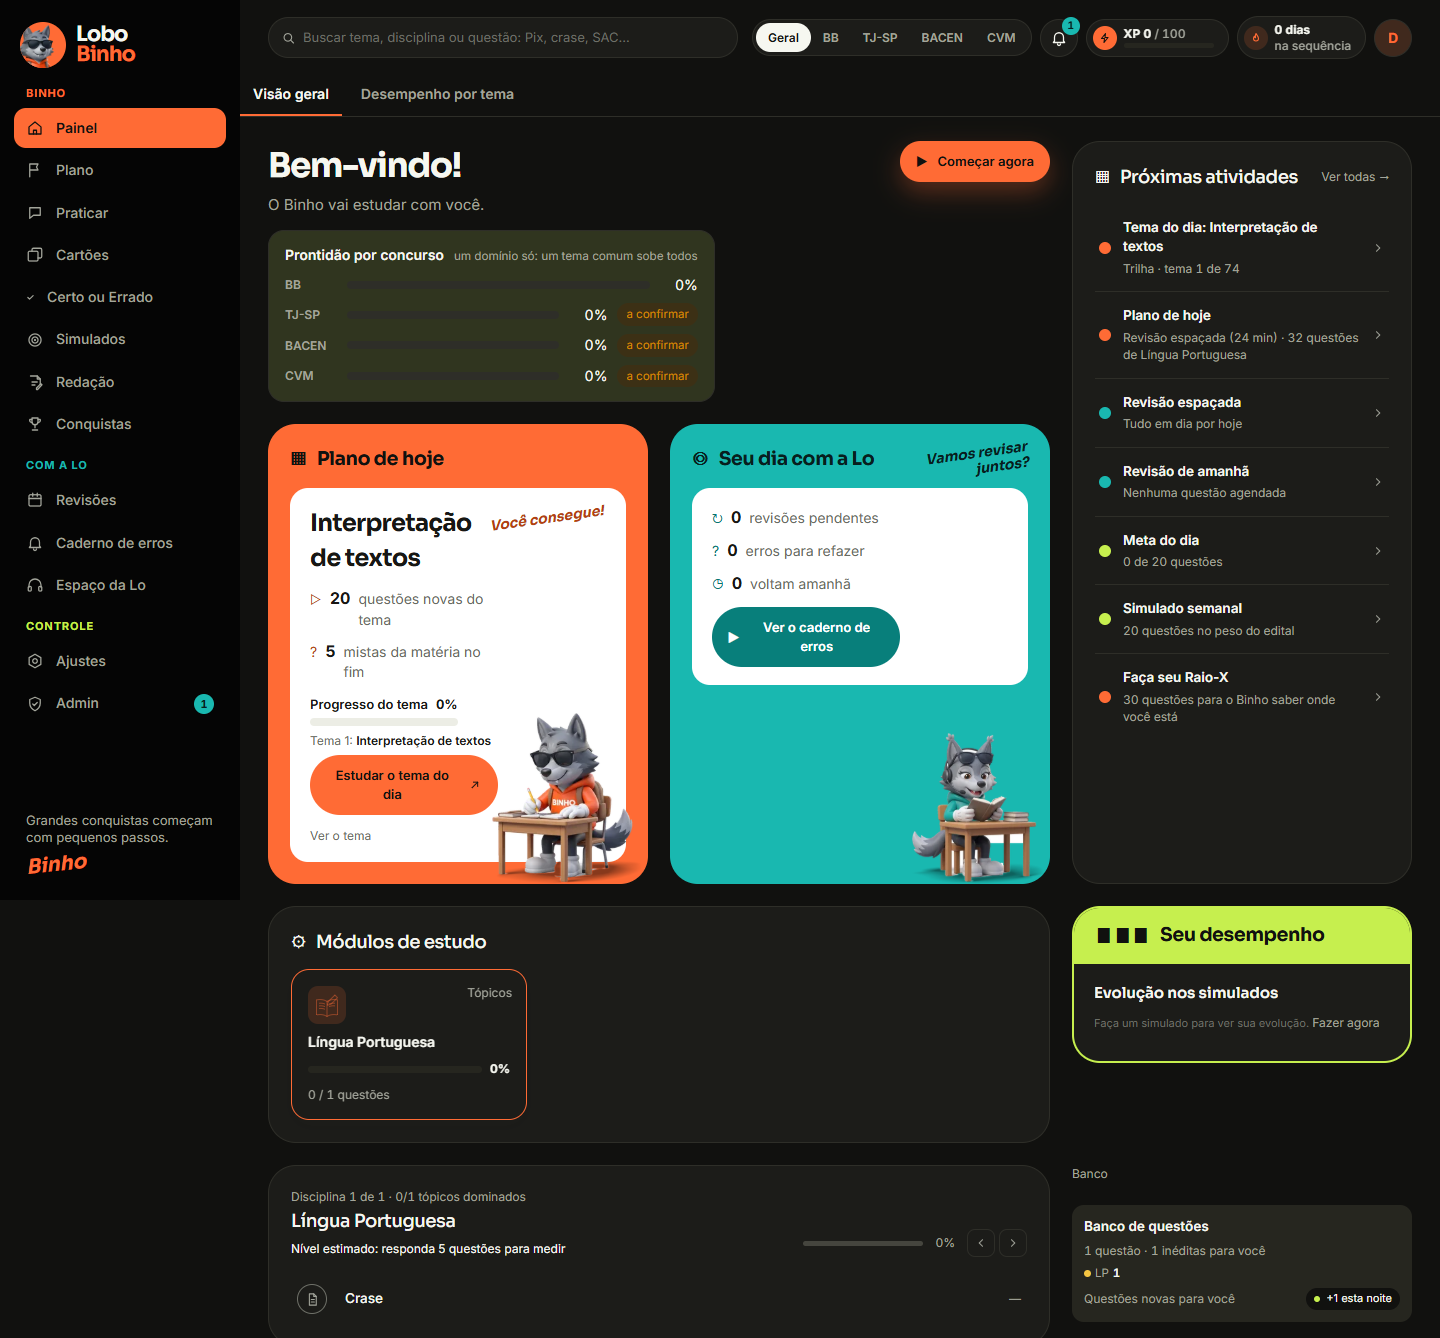
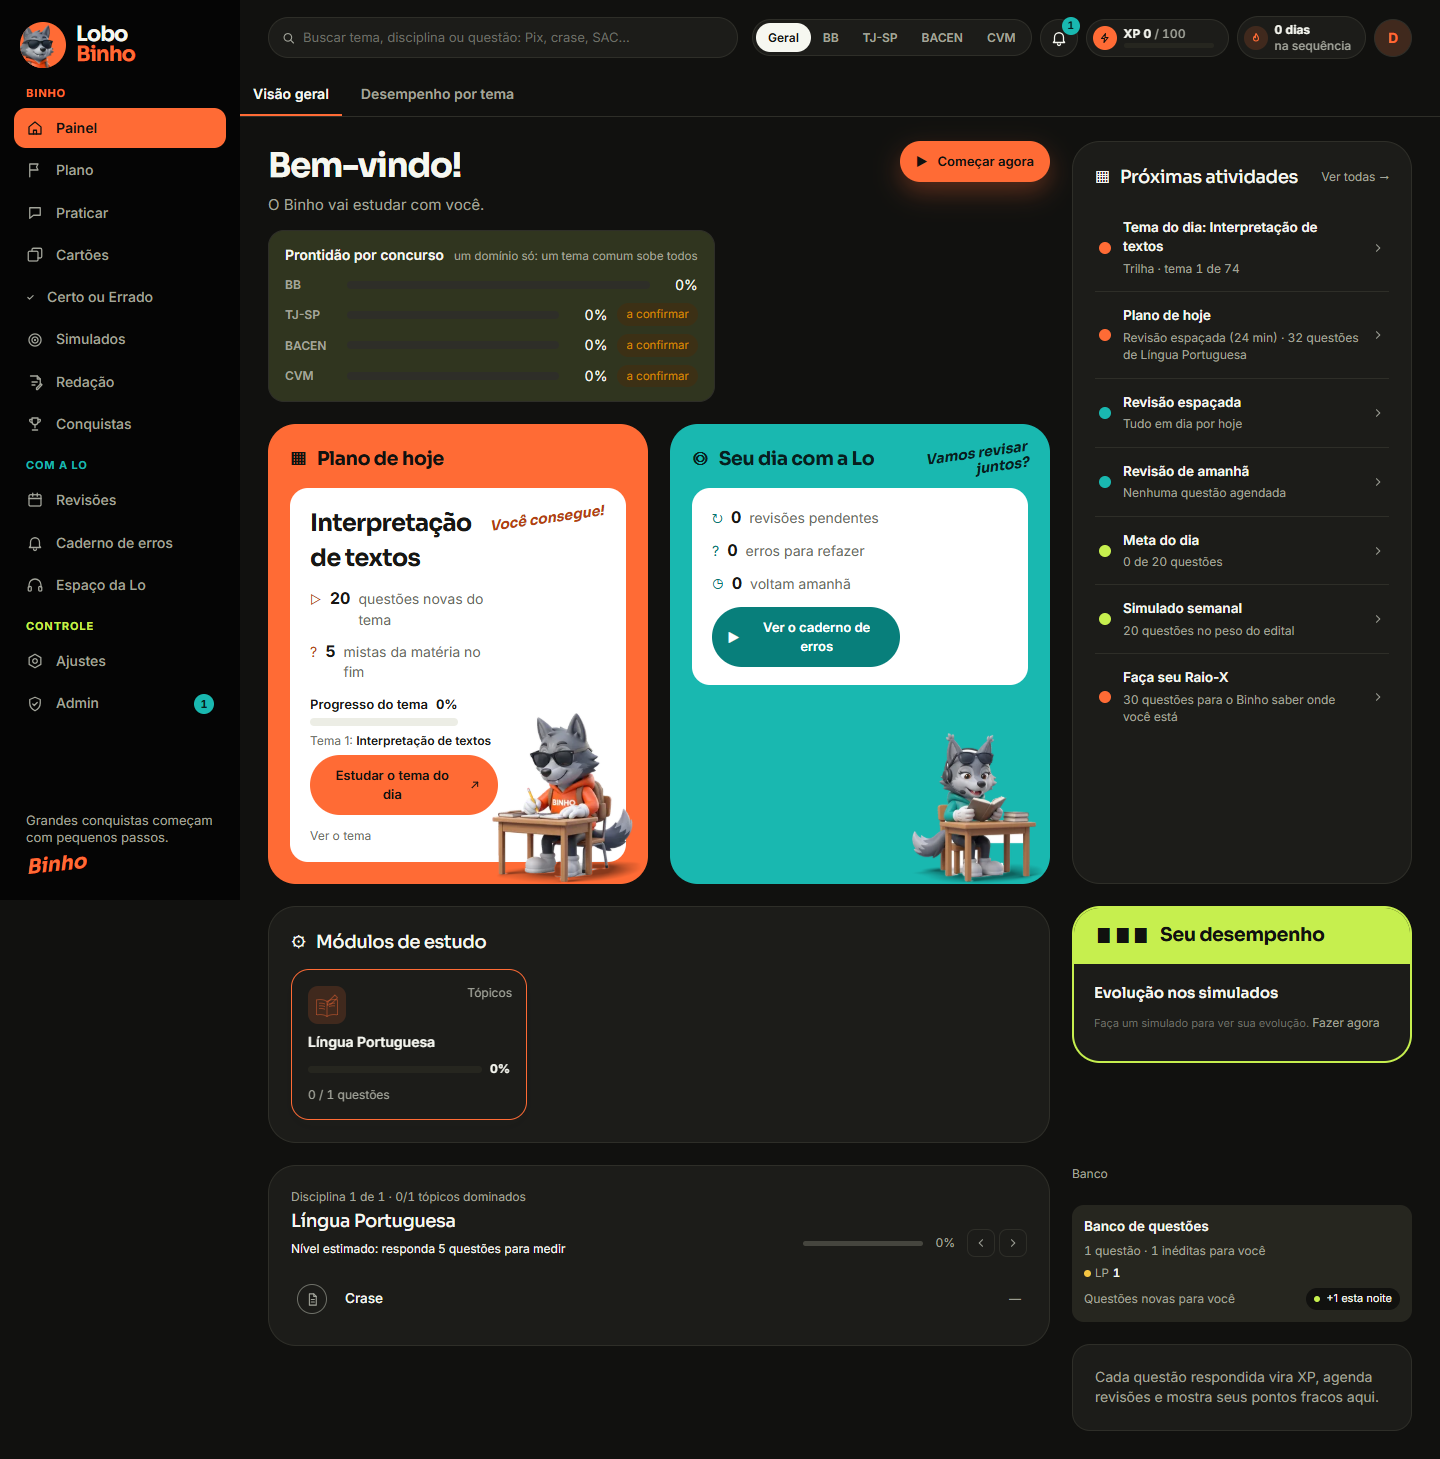
docs(v1.0): RETOMAR.md, MESTRE e DIARIO; body-parser 2.4.0 (alta)
Fechamento v1.0, item 6.
- Varredura de segredos no histórico: 3 URIs, todas de exemplo; nenhum segredo real.
- npm audit: body-parser 2.4.0 (alta corrigida, mesma versão maior); resta 1 moderada em dev
  (fast-uri), na lista.
- docs/RETOMAR.md: subir, publicar, voltar de versão (Render/Vercel), demo, noturno, Atlas,
  backups e pendências por prioridade. MESTRE: energia do PC e freios.
Typecheck limpo, 292 ok / 0 falha, 5/5 com banco em memória, smoke 31,1 s.

diff --git a/docs/RETOMAR.md b/docs/RETOMAR.md
@@ -1,0 +1,49 @@
+# Retomar o Lobo Binho (versão v1.0-estudo)
+
+Versão congelada em 26/10/2026, tag `v1.0-estudo`. As regras estão no `CLAUDE.md`; o estado e os números, no `docs/MESTRE.md`.
+
+## Subir no PC
+1. `npm run setup` (só na primeira vez). Use Node 22.
+2. `.env` a partir do `.env.example`. **Nunca** commitar nem imprimir o `.env`.
+3. `npm run dev`: API em :3333 e site em :5173.
+4. Conferir: `npm run typecheck`, `npm test` e `npx tsx scripts/smoke-local.ts` (servidor de produção num banco em memória, ~30 s).
+
+## Publicar
+- **Render** (API e site): painel → serviço → *Manual Deploy* → *Deploy latest commit*. O health check é `/api/saude`, que mostra a versão (commit) e o último noturno.
+- **Vercel** (frente rápida): passo a passo em `docs/VERCEL.md`. O `web/vercel.json` já traz o rewrite, a CSP, o cache e o `npm ci`.
+- **Depois de publicar:** `SMOKE_URL=https://<site> SMOKE_EMAIL=... SMOKE_SENHA=... npm run smoke`. Leva menos de 2 min: responde 1 questão e a desfaz.
+
+## Voltar para a versão anterior
+- **Render:** painel → *Events/Deploys* → escolha o deploy da tag anterior → *Rollback*. Ou, pelo código: `git checkout v1.0-estudo` e *Deploy* desse commit.
+- **Vercel:** painel → *Deployments* → o deploy anterior → *Promote to Production*.
+- **Banco:** a versão do código não mexe nos dados. Para restaurar dados, ver "Backups" abaixo.
+
+## Se algo der errado
+- **O site caiu no modo demo** (selo "modo demo"):
+  1. Abra `/api/saude`. Se não responder, o Render dorme ou caiu; espere ~1 min.
+  2. Se responder e mesmo assim ficar no demo, olhe o cookie de login. Ele é `HttpOnly; SameSite=Lax; Secure`, sem `Domain`, e pelo rewrite da Vercel fica no domínio do site. Não aponte o site direto para a URL do Render: use sempre o `/api` do próprio site.
+- **O noturno parou:** veja Admin → selo "noturno atrasado" (mais de 36 h) e Admin → Janelas.
+  1. Rode `schtasks /query /tn "Lobo Binho - Noturno Local" /v /fo LIST`.
+  2. A tarefa precisa de: acordar o PC, rodar se perdido e parar em 5 h.
+  3. O PC precisa estar em **suspensão** (não desligado), na tomada, com a conta logada.
+  4. Logs em `logs\noturno\<data>.log`, guardados por 14 dias. Para trava presa: `npm run bb -- limpar-trava-orfa <pid>`.
+- **O Atlas lotou:** o relatório diário avisa acima de 70%, e a escrita para em 80%.
+  1. Rode `npm run bb -- uso-banco` (o que pesa).
+  2. Depois `npm run bb -- uso-banco ajustar` (TTL da telemetria e teto do áudio).
+  3. Nada de plano pago.
+- **A IA para no meio do dia:** pode ser o teto diário global (`IA_TETO_DIA`, padrão 300 chamadas) ou o disjuntor (5 falhas seguidas → o modelo fica 30 min fora). Os dois aparecem em Admin → Erros.
+
+## Backups
+- **Onde ficam:** `backups/<data>[-HHmm]/`, fora do Git, um por noite. Guardam 14 dias.
+- **O que cobrem:** contas, tentativas, revisões, redações, ratings, questões, tópicos, cartões, contestações, respostas C/E, simulados, Espaço da Lo, itens C/E e fichas.
+- **Provar que restaura:** `npm run bb -- backup-testar` restaura numa base temporária, compara coleção por coleção e apaga a temporária. Último teste: `backups/2026-10-26-0859`, 15/15 coleções iguais.
+- **Restaurar de verdade:** `npm run bb -- restaurar backups/<pasta> --simular`, conferir as contagens, depois `--confirmar` (cria um rollback antes).
+
+## Pendências por prioridade
+1. **(Dono)** Publicar: Vercel (`docs/VERCEL.md`) e deploy no Render. Depois, rodar `npm run smoke` com a sua conta.
+2. **(Dono)** O `render.yaml` declara `plan: starter`, que é **pago**, no site e no cron. Confira no painel do Render se está no free. O noturno roda no PC, então o cron do Render não é necessário.
+3. **(Dono)** BNB 2024 item 17; gabaritos do TJ-SP 2023 e do CNU 2024; cotas do edital do TJ-SP; os 72 arquivos por tema.
+4. Fichas que o material do acervo não sustenta: Interpretação, Pontuação e Coesão. Elas precisam de material com teoria (mapa do acervo) ou do OK do dono para cursinho.
+5. Lotes de provas da E10 (Cesgranrio, Cebraspe, FGV), amostra de 80 da classificação e golden set do chat de 30 casos: os comandos estão prontos e ainda não rodaram.
+6. Livros CVM/BCB por capítulo.
+7. `fast-uri` (moderada, só em dependência de desenvolvimento).

diff --git a/docs/DIARIO.md b/docs/DIARIO.md
@@ -467,7 +467,23 @@ O histórico completo (16 a 20/10/2026, viagem, adendos e PROMPT-FECHAMENTO F0 a
    - "Relatório da esteira" no fim: temas prontos × total por concurso, chamadas × capacidade, descarte por motivo.
    - Também roda à mão com `bb -- esteira relatorio`.
 
-RETOMAR AQUI (26/10/2026):
-1. Esteira de conteúdo: deixar a noite trabalhar; conferir de manhã o relatório da esteira e a aba Cobertura. Falta: livros CVM/BCB por capítulo. Quando os 20 primeiros temas baterem a meta: E12 + E14 e congelar funcionalidades.
-2. Retomar as cadeias que não rodaram: lotes da E10 (BNDES, Caixa, Banrisul, BASA, Cebraspe, FGV), amostra de 80 da E3, golden set do chat de 30, fichas.
-3. BLOQUEADO pelo dono: BNB 2024 item 17; gabarito TJ-SP 2023; gabarito CNU; cotas TJ-SP.
+## 26/10/2026 — Fechamento de versão v1.0-estudo (congelada)
+
+- Esteira de conteúdo (rodada de 6 temas): Concordância PRONTO (agora são 2 de 74 prontos). Regência e Pontuação chegaram a 15 novas; as fichas de Pontuação, Coesão e Interpretação foram barradas pelo material.
+- Item 0: SIM. Backup restaurado num MongoDB local em memória (o usuário do Atlas não cria outras bases), 15/15 coleções iguais. O backup passou a levar respostas C/E, simulados, espaco_lo, itens C/E e fichas; backup antigo continua restaurável (teste). `402a79c`.
+- Item 1: SIM. `vercel.json` com CSP igual à do Express (0 violações no build de produção), cache imutável, `index.html` sem cache, `npm ci`, Node 22.x. `66256f3`.
+- Item 2: SIM.
+  - `npm run smoke`: 31,5 s local, contra o servidor de produção num banco em memória.
+  - `/api/saude` mostra a versão e o último noturno.
+  - Selo "noturno atrasado" e Admin → Erros, sem dados sensíveis.
+  - Commits `fa86dbb` e `2395528`.
+  - O cookie não precisou de correção (`SameSite=Lax`, sem `Domain`).
+- Item 3: PARCIAL. A vigência só vale para tema normativo; teste escrito antes, falhou, corrigi e passa. A ficha de Interpretação regerada 2x foi rejeitada por outro motivo (só 2 de 5 trechos literais no material). Nenhuma outra ficha caiu pela vigência. `1b4eaf7`.
+- Item 4: SIM. `IA_TETO_DIA` (300), disjuntor de 5 falhas → 30 min com registro, e o segundo noturno sai sem fazer nada. Os três têm teste. `120715d`.
+- Item 5: SIM. Tarefa com acordar o PC, rodar se perdido e limite de 5 h; idempotência provada (classificação e C/E); logs e backups com 14 dias; alerta do Atlas acima de 70% no relatório. `923cc09`.
+- Item 6:
+  - Varredura de segredos no histórico: 3 URIs, todas de exemplo (.env.example, teste "fake", teste de limpeza). Nenhum segredo real.
+  - `npm audit`: `body-parser` 2.4.0 (alta corrigida sem trocar a versão maior); sobra 1 moderada em dependência de desenvolvimento (`fast-uri`).
+  - Tag `v1.0-estudo` e `docs/RETOMAR.md`.
+
+RETOMAR AQUI (26/10/2026): ver `docs/RETOMAR.md` (versão v1.0-estudo congelada). Daqui em diante: só esteira de conteúdo e correções.

diff --git a/docs/MESTRE.md b/docs/MESTRE.md
@@ -180,6 +180,15 @@ Resolvidas (uma linha cada):
   2. Rode `schtasks /query /tn "Lobo Binho - Noturno Local" /v /fo LIST`. O PC precisa estar ligado ou em suspensão, com a conta logada.
   3. Se a Janela B estiver agendada, ela recupera às 18:00.
   4. Trava presa: `bb -- limpar-trava-orfa <pid>`.
+- **Energia do PC (para o noturno das 01:00):** sem mexer em nada além da tarefa e da energia.
+  1. Configurações → Sistema → Energia: tela "Nunca" é opcional; o PC precisa poder **suspender** (não hibernar nem desligar).
+  2. Painel de Controle → Opções de Energia → *Alterar configurações do plano* → *Alterar configurações de energia avançadas* → Suspender → **Permitir temporizadores de ativação = Ativar** (na bateria e na tomada).
+  3. Deixe o notebook **na tomada** e a sua conta **logada** (bloquear a tela pode; sair da conta não).
+  4. A tarefa "Lobo Binho - Noturno Local" já está com: acordar o computador, executar assim que possível se perdido, parar se passar de 5 h.
+- **Freios (v1.0):**
+  - teto diário global de chamadas de IA (`IA_TETO_DIA`, padrão 300);
+  - disjuntor: 5 falhas seguidas do mesmo modelo → 30 min fora, registrado em Admin → Erros;
+  - o segundo noturno simultâneo sai sem fazer nada.
 - **Prova travada na fila:** quando uma prova falha, ela vai para a Config `fila_ingestao_falhas`. Corrija e enfileire de novo.
 - **A IA está fora:** a corrente pula sozinha. Se cair inteira, as tarefas esperam a próxima janela.
 - **O banco está cheio:** `bb -- uso-banco` e `bb -- uso-banco ajustar`; alerta em 80%.
@@ -187,4 +196,4 @@ Resolvidas (uma linha cada):
 
 ## 10. Retomar aqui
 
-Ver o "RETOMAR AQUI" no fim de `docs/DIARIO.md`.
+Versão congelada **v1.0-estudo** (26/10/2026): como subir, publicar, voltar e as pendências em `docs/RETOMAR.md`. O dia a dia fica no "RETOMAR AQUI" de `docs/DIARIO.md`.
